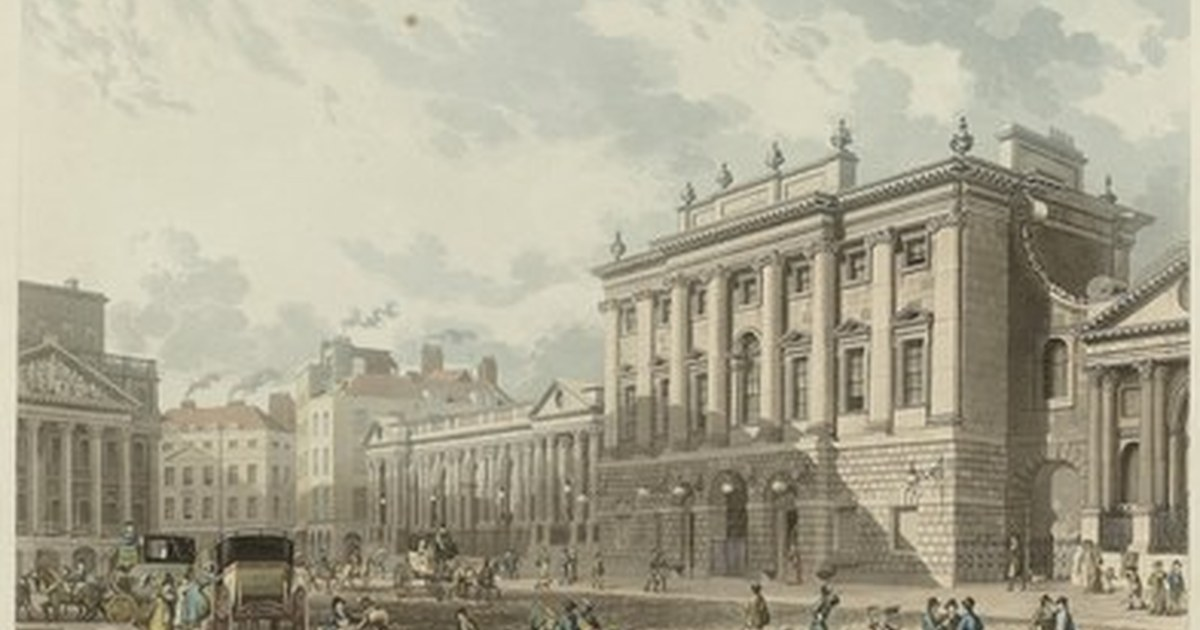
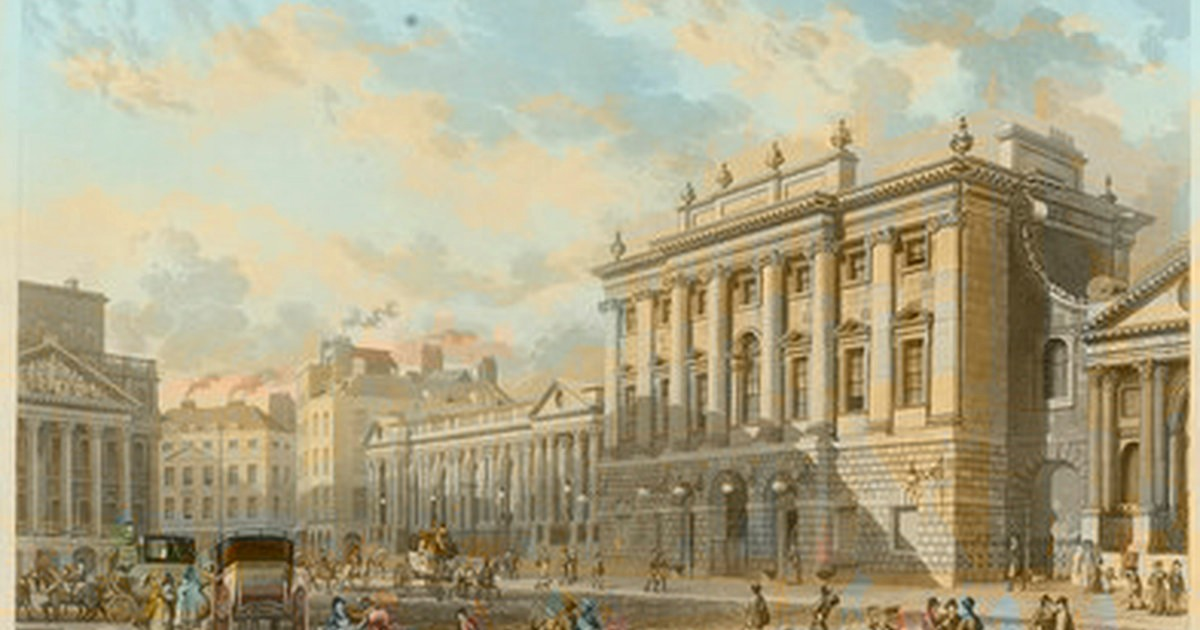
Colorize Bank of England article hero and note it in the caption (#134)
Faithful chroma tint over the existing PD Rijksmuseum plate (luminance preserved),
synced titlebild + OG at 1200×630 fill crop, with caption/credit marking colorized.

diff --git a/src/lib/content/article-media.ts b/src/lib/content/article-media.ts
@@ -109,9 +109,11 @@ export const ARTICLE_HEROES: readonly ArticleHero[] = [
     path: "/history/banks-paper/bank-of-england",
     src: "/images/history/banks-paper/bank-of-england.jpg",
     ogSrc: "/og/cards/history-banks-paper-bank-of-england.jpg",
-    alt: "Historical print showing the Bank of England building in London.",
-    caption: "Historical view of the Bank of England, London (print).",
-    credit: "CC0 — Rijksmuseum (RP-P-2010-229).",
+    alt: "Colorized historical print showing the Bank of England building in London.",
+    caption:
+      "A view of the Bank of England, London — colorized from a public-domain print.",
+    credit:
+      "Colorized from public-domain original. CC0 — Rijksmuseum (RP-P-2010-229).",
   },
   {
     path: "/history/banks-paper/john-law",
